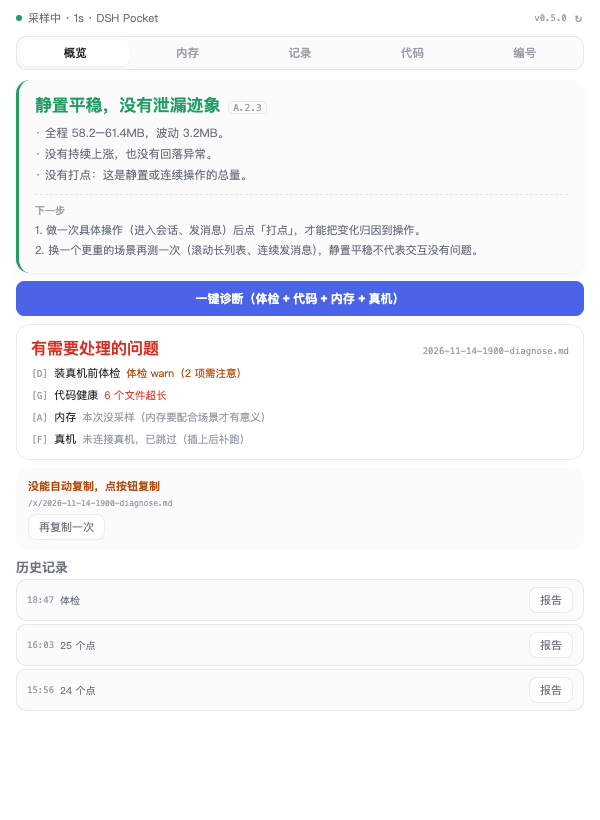
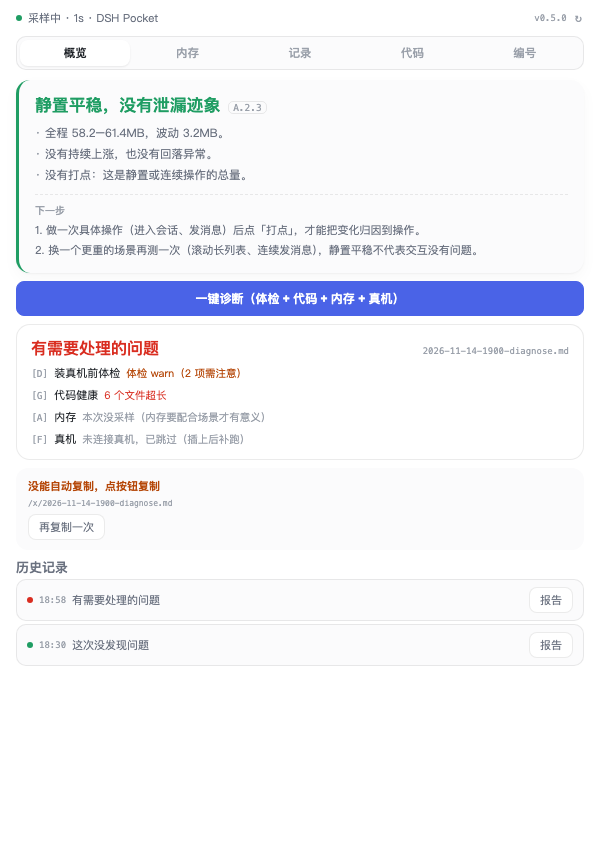
feat(diagnose): 每按一次存一条不可改记录（append-only JSONL）
用户定的模型：概览一键诊断 = 一次报告；历史 = 持久化记录；记录不可修改。
- core/diagnose-store.js：docs/measurements/diagnoses.jsonl，只追加不编辑
- diagnose RPC 追加 {id, at, project, device, level, headline, modules, 三个路径, handoff}
- 概览历史直接读 JSONL（最新的在上），点「报告」复制这条的交接文本
- Markdown 报告只是记录的视图，不是数据源

Verify: npm test 104 绿；预览历史两条记录带红/绿点

diff --git a/client.js b/client.js
@@ -669,14 +669,15 @@ window.__ModuleLoader__.load({
               props.handoff.copied ? null : e("button", { onClick: props.onCopy, style: Object.assign({}, SMALL_BTN, { alignSelf: "flex-start" }) }, t("panel.handoff.copy")))
             : null,
 
-          props.runs && props.runs.filter(function (run) { return run.events > 0 || run.kind === 'preflight'; }).length
+          props.diagnoses && props.diagnoses.length
             ? e("div", { style: { display: "flex", flexDirection: "column", gap: 3 } },
               e("div", { style: { fontSize: 13, fontWeight: 600, color: FG2 } }, t("panel.records.title")),
-              props.runs.filter(function (run) { return run.events > 0 || run.kind === 'preflight'; }).slice(0, 3).map(function (run) {
-                return e("div", { key: run.runId, style: { display: "flex", alignItems: "center", gap: 6, background: BG2, border: "1px solid " + BORDER, borderRadius: 10, padding: "7px 10px" } },
-                  e("span", { style: { fontSize: 9, fontFamily: MONO, color: FG3 } }, props.clock(run.from)),
-                  e("span", { style: { fontSize: 10, color: FG2, flex: 1 } }, run.kind === "preflight" ? t("panel.records.check") : run.events + " " + t("panel.records.points")),
-                  e("button", { onClick: function () { props.onReport(run); }, style: SMALL_BTN }, t("panel.records.open")));
+              props.diagnoses.slice(0, 6).map(function (row) {
+                return e("div", { key: row.id, style: { display: "flex", alignItems: "center", gap: 6, background: BG2, border: "1px solid " + BORDER, borderRadius: 10, padding: "7px 10px" } },
+                  e("span", { style: { width: 6, height: 6, borderRadius: 99, background: LEVEL_COLOR[row.level] || FG3, flex: "0 0 auto" } }),
+                  e("span", { style: { fontSize: 9, fontFamily: MONO, color: FG3, flex: "0 0 auto" } }, props.clock(row.at)),
+                  e("span", { style: { fontSize: 11, color: FG2, flex: 1, minWidth: 0, overflow: "hidden", textOverflow: "ellipsis", whiteSpace: "nowrap" } }, row.headline),
+                  e("button", { onClick: function () { props.onCopyRecord(row); }, style: SMALL_BTN }, t("panel.records.open")));
               }))
             : null
         );
@@ -843,6 +844,7 @@ window.__ModuleLoader__.load({
         var [reportError, setReportError] = useState("");
         var [diagnose, setDiagnose] = useState(null);
         var [diagnoseBusy, setDiagnoseBusy] = useState(false);
+        var [diagnoses, setDiagnoses] = useState([]);
 
         var sinceRef = useRef(0);
         var startedRef = useRef(null);
@@ -879,7 +881,20 @@ window.__ModuleLoader__.load({
 
         useEffect(function () {
           void loadRuns();
+          void loadDiagnoses();
         }, []);
+
+        function loadDiagnoses() {
+          return rpc("diagnoses", { limit: 20 }).then(function (res) {
+            if (res && res.ok && res.value) setDiagnoses(res.value.rows || []);
+          });
+        }
+
+        function copyRecord(row) {
+          var text = row.handoff || row.reportPath;
+          setHandoff({ path: row.reportPath, text: text, copied: true });
+          copyText(text);
+        }
 
         useEffect(function () {
           rpc("info", {}).then(function (res) {
@@ -925,6 +940,7 @@ window.__ModuleLoader__.load({
             setDiagnose(res.value);
             setReportPath(res.value.path || "");
             void loadRuns();
+            void loadDiagnoses();
             if (res.value.handoff) {
               var text = res.value.handoff;
               setHandoff({ path: res.value.path || "", text: text, copied: false });
@@ -1419,6 +1435,8 @@ window.__ModuleLoader__.load({
               diagnose: diagnose,
               diagnoseBusy: diagnoseBusy,
               onDiagnose: runDiagnose,
+              diagnoses: diagnoses,
+              onCopyRecord: copyRecord,
               busy: runBusy,
               canReport: samples.length > 0,
               handoff: handoff,
@@ -1442,6 +1460,8 @@ window.__ModuleLoader__.load({
               diagnose: diagnose,
               diagnoseBusy: diagnoseBusy,
               onDiagnose: runDiagnose,
+              diagnoses: diagnoses,
+              onCopyRecord: copyRecord,
               busy: runBusy,
               canReport: samples.length > 0,
               onExport: exportRun,

diff --git a/client/40-panel.js b/client/40-panel.js
@@ -81,14 +81,15 @@
           props.handoff.copied ? null : e("button", { onClick: props.onCopy, style: Object.assign({}, SMALL_BTN, { alignSelf: "flex-start" }) }, t("panel.handoff.copy")))
         : null,
 
-      props.runs && props.runs.filter(function (run) { return run.events > 0 || run.kind === 'preflight'; }).length
+      props.diagnoses && props.diagnoses.length
         ? e("div", { style: { display: "flex", flexDirection: "column", gap: 3 } },
           e("div", { style: { fontSize: 13, fontWeight: 600, color: FG2 } }, t("panel.records.title")),
-          props.runs.filter(function (run) { return run.events > 0 || run.kind === 'preflight'; }).slice(0, 3).map(function (run) {
-            return e("div", { key: run.runId, style: { display: "flex", alignItems: "center", gap: 6, background: BG2, border: "1px solid " + BORDER, borderRadius: 10, padding: "7px 10px" } },
-              e("span", { style: { fontSize: 9, fontFamily: MONO, color: FG3 } }, props.clock(run.from)),
-              e("span", { style: { fontSize: 10, color: FG2, flex: 1 } }, run.kind === "preflight" ? t("panel.records.check") : run.events + " " + t("panel.records.points")),
-              e("button", { onClick: function () { props.onReport(run); }, style: SMALL_BTN }, t("panel.records.open")));
+          props.diagnoses.slice(0, 6).map(function (row) {
+            return e("div", { key: row.id, style: { display: "flex", alignItems: "center", gap: 6, background: BG2, border: "1px solid " + BORDER, borderRadius: 10, padding: "7px 10px" } },
+              e("span", { style: { width: 6, height: 6, borderRadius: 99, background: LEVEL_COLOR[row.level] || FG3, flex: "0 0 auto" } }),
+              e("span", { style: { fontSize: 9, fontFamily: MONO, color: FG3, flex: "0 0 auto" } }, props.clock(row.at)),
+              e("span", { style: { fontSize: 11, color: FG2, flex: 1, minWidth: 0, overflow: "hidden", textOverflow: "ellipsis", whiteSpace: "nowrap" } }, row.headline),
+              e("button", { onClick: function () { props.onCopyRecord(row); }, style: SMALL_BTN }, t("panel.records.open")));
           }))
         : null
     );
@@ -255,6 +256,7 @@
     var [reportError, setReportError] = useState("");
     var [diagnose, setDiagnose] = useState(null);
     var [diagnoseBusy, setDiagnoseBusy] = useState(false);
+    var [diagnoses, setDiagnoses] = useState([]);
 
     var sinceRef = useRef(0);
     var startedRef = useRef(null);
@@ -291,7 +293,20 @@
 
     useEffect(function () {
       void loadRuns();
+      void loadDiagnoses();
     }, []);
+
+    function loadDiagnoses() {
+      return rpc("diagnoses", { limit: 20 }).then(function (res) {
+        if (res && res.ok && res.value) setDiagnoses(res.value.rows || []);
+      });
+    }
+
+    function copyRecord(row) {
+      var text = row.handoff || row.reportPath;
+      setHandoff({ path: row.reportPath, text: text, copied: true });
+      copyText(text);
+    }
 
     useEffect(function () {
       rpc("info", {}).then(function (res) {
@@ -337,6 +352,7 @@
         setDiagnose(res.value);
         setReportPath(res.value.path || "");
         void loadRuns();
+        void loadDiagnoses();
         if (res.value.handoff) {
           var text = res.value.handoff;
           setHandoff({ path: res.value.path || "", text: text, copied: false });
@@ -831,6 +847,8 @@
           diagnose: diagnose,
           diagnoseBusy: diagnoseBusy,
           onDiagnose: runDiagnose,
+          diagnoses: diagnoses,
+          onCopyRecord: copyRecord,
           busy: runBusy,
           canReport: samples.length > 0,
           handoff: handoff,
@@ -854,6 +872,8 @@
           diagnose: diagnose,
           diagnoseBusy: diagnoseBusy,
           onDiagnose: runDiagnose,
+          diagnoses: diagnoses,
+          onCopyRecord: copyRecord,
           busy: runBusy,
           canReport: samples.length > 0,
           onExport: exportRun,

diff --git a/index.js b/index.js
@@ -15,6 +15,7 @@ import { assessHealth } from './core/health.js'
 import { aggregateDiagnose, renderDiagnoseReport, buildDiagnoseHandoff } from './core/diagnose.js'
 import { assessMemory } from './core/assess.js'
 import { physicalDevices } from './core/trace.js'
+import { appendDiagnose, listDiagnoses } from './core/diagnose-store.js'
 import { writeFile, mkdir } from 'node:fs/promises'
 import { parseCheckReport, buildCheckHandoff } from './core/handoff.js'
 import { readFile } from 'node:fs/promises'
@@ -105,6 +106,8 @@ async function dispatch(op, payload) {
       return { modules: CATALOG }
     case 'preflight':
       return sampler.preflight(payload)
+    case 'diagnoses':
+      return { rows: await listDiagnoses({ limit: Math.min(50, Math.max(1, Number(payload.limit) || 20)) }) }
     case 'diagnose': {
       const bundleId = String(payload.bundleId || (sampler.session.target && sampler.session.target.bundleId) || '')
       const project = bundleId ? bundleId.split('.').pop() : String(process.cwd()).split('/').pop()
@@ -149,7 +152,23 @@ async function dispatch(op, payload) {
       })
       await writeFile(path, markdown)
       const handoff = buildDiagnoseHandoff({ result, reportPath: path, project, checks: check, healthPath: reportPaths.代码健康, root: ROOT })
-      return { ok: true, path, handoff, result, reportPaths }
+      // 每按一次 = 一条不可改记录；Markdown 只是它的视图。
+      const record = {
+        id: `diag-${stamp}`,
+        at: now.toISOString(),
+        project,
+        device: sampler.session.target ? sampler.session.target.deviceName : '模拟器',
+        level: result.level,
+        headline: result.headline,
+        subline: result.subline,
+        modules: result.modules,
+        reportPath: path,
+        healthPath: reportPaths.代码健康,
+        checkPath: reportPaths.体检,
+        handoff,
+      }
+      await appendDiagnose(record)
+      return { ok: true, path, handoff, result, reportPaths, record }
     }
     case 'reportNow': {
       const exported = await sampler.exportRun({ lastSeconds: 120 })

diff --git a/core/diagnose-store.js b/core/diagnose-store.js
@@ -1,0 +1,38 @@
+// core/diagnose-store.js · 诊断记录（append-only JSONL）
+//
+// 为什么用 JSONL：一行一条、只追加、不改写。历史记录读它，Markdown 只是它的视图。
+// 文件：docs/measurements/diagnoses.jsonl
+import { appendFile, mkdir, readFile } from 'node:fs/promises'
+import { dirname, join } from 'node:path'
+import { fileURLToPath } from 'node:url'
+
+const ROOT = fileURLToPath(new URL('../', import.meta.url))
+export const STORE = join(ROOT, 'docs', 'measurements', 'diagnoses.jsonl')
+
+const storeFile = () => process.env.DIAG_STORE || STORE
+
+export async function appendDiagnose(record) {
+  const file = storeFile()
+  await mkdir(dirname(file), { recursive: true })
+  await appendFile(file, JSON.stringify(record) + '\n')
+  return record.id
+}
+
+export async function listDiagnoses({ limit = 20 } = {}) {
+  let text = ''
+  try {
+    text = await readFile(storeFile(), 'utf8')
+  } catch {
+    return []
+  }
+  const rows = []
+  for (const line of text.split('\n')) {
+    if (!line.trim()) continue
+    try {
+      rows.push(JSON.parse(line))
+    } catch {
+      // 坏行跳过，不影响其它记录
+    }
+  }
+  return rows.reverse().slice(0, limit)
+}

diff --git a/docs/measurements/desktop/2026-11-14-1850-diagnose.md b/docs/measurements/desktop/2026-11-14-1850-diagnose.md
@@ -1,0 +1,36 @@
+# 诊断报告 · desktop
+
+> **项目**：desktop
+> **时间**：2026-11-14 18:50
+> **设备**：模拟器
+> **只读**：没有修改被测仓库
+
+## 结论
+
+**这次没发现问题**
+
+代码健康：正常 · 内存：跳过 · 真机：跳过
+
+### G 代码健康
+
+结构在阈值内　`[G.0]`
+- 没有超过 400 行的文件，也没有 Error 级规则。
+
+### A 内存
+
+本次没采样（内存要配合场景才有意义）
+
+### F 真机
+
+已连接 Ruska的iPhone（真机录制可在「记录」里单独跑）
+
+## 报告文件
+
+- 代码健康：/Users/ruska/projects/dsh-plugins/dsh-ios-diag/docs/measurements/desktop/2026-11-14-1850-health.md
+
+## 复现方式
+
+```bash
+ios_preflight { bundleId: "<bundle id>" }
+npm run health -- --target <仓库路径> --project <slug>
+```

diff --git a/docs/measurements/desktop/2026-11-14-1850-health.md b/docs/measurements/desktop/2026-11-14-1850-health.md
@@ -1,0 +1,28 @@
+# 代码健康扫描 · desktop
+
+> **项目**：desktop
+> **目标目录**：/Users/ruska/.dsh/profiles/desktop
+> **时间**：2026-11-14 18:50
+> **工具**：dsh-ios-diag health-scan（只读；不修改目标仓库）
+
+## 概览
+
+| 指标 | 值 |
+| --- | --- |
+| 扫描文件 | 0 |
+| 总行数 | 0 |
+| 超过 400 行 | 0 |
+| Lint 违规 | 0 |
+
+## 超限文件（> 400 行）
+
+没有超过 400 行的文件。
+
+## Lint 规则（按违规数）
+
+没有 lint 违规（或没装 SwiftLint）。
+
+## 结论
+
+- 结构阈值内；lint 没有 Error。
+- 阈值是规范值（400 行/文件、150 行/类型），可按项目调整。
